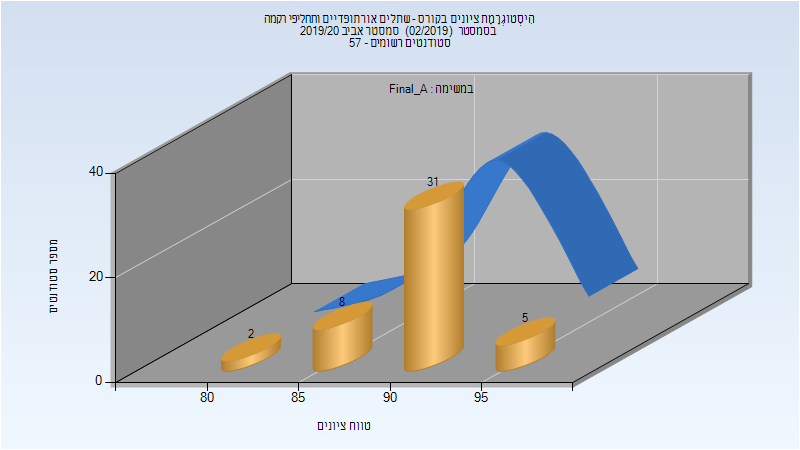
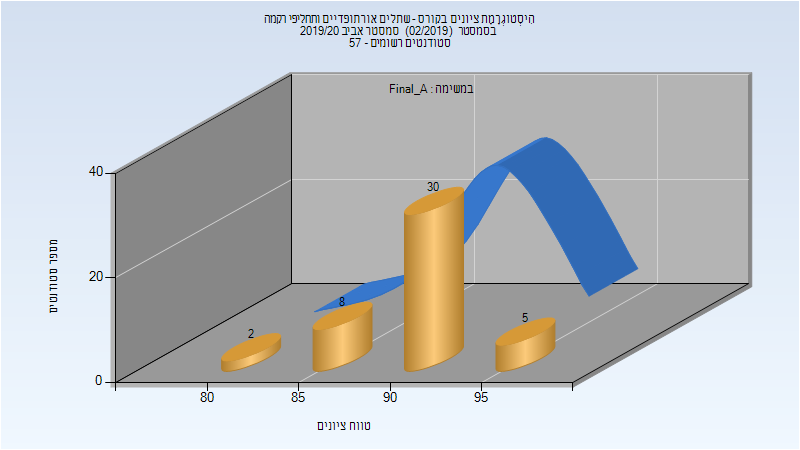
Deploy michael-maltsev/technion-histograms to github.com/michael-maltsev/technion-histograms.git:gh-pages

diff --git a/336520/index.html b/336520/index.html
@@ -206,12 +206,12 @@
 </thead>
 <tbody>
 <tr>
-<td>46</td>
-<td>46/0</td>
+<td>45</td>
+<td>45/0</td>
 <td>100</td>
 <td>56</td>
 <td>98</td>
-<td>82.511</td>
+<td>82.478</td>
 <td>84</td>
 </tr>
 </tbody>
@@ -232,13 +232,13 @@
 </thead>
 <tbody>
 <tr>
-<td>46</td>
-<td>46/0</td>
+<td>45</td>
+<td>45/0</td>
 <td>100</td>
 <td>84.46</td>
 <td>97.6</td>
-<td>92.365</td>
-<td>93.03</td>
+<td>92.351</td>
+<td>93.06</td>
 </tr>
 </tbody>
 </table>
@@ -310,12 +310,12 @@
 </thead>
 <tbody>
 <tr>
-<td>57</td>
-<td>57/0</td>
+<td>58</td>
+<td>58/0</td>
 <td>100</td>
 <td>84</td>
 <td>98</td>
-<td>92.719</td>
+<td>92.724</td>
 <td>93</td>
 </tr>
 </tbody>

diff --git a/324298/index.html b/324298/index.html
@@ -411,11 +411,11 @@
 <td>מרצה - אחראי מקצוע</td>
 </tr>
 <tr>
-<td>בורנשטיין יעל</td>
+<td>איסמן ליסה</td>
 <td>סגל מנהלי - עם הרשאות מרצה אחראי</td>
 </tr>
 <tr>
-<td>איסמן ליסה</td>
+<td>הראל אילנה</td>
 <td>סגל מנהלי - עם הרשאות מרצה אחראי</td>
 </tr>
 <tr>
@@ -423,7 +423,7 @@
 <td>סגל מנהלי - עם הרשאות מרצה אחראי</td>
 </tr>
 <tr>
-<td>הראל אילנה</td>
+<td>בורנשטיין יעל</td>
 <td>סגל מנהלי - עם הרשאות מרצה אחראי</td>
 </tr>
 </tbody>

diff --git a/336520/README.md b/336520/README.md
@@ -62,7 +62,7 @@
 
 | סטודנטים | עברו/נכשלו | אחוז עוברים | ציון מינימלי | ציון מקסימלי | ממוצע | חציון |
 | ---- | ---- | ---- | ---- | ---- | ---- | ---- |
-| 46 | 46/0 | 100 | 56 | 98 | 82.511 | 84 |
+| 45 | 45/0 | 100 | 56 | 98 | 82.478 | 84 |
 
 ### סופי מועד א'
 
@@ -70,7 +70,7 @@
 
 | סטודנטים | עברו/נכשלו | אחוז עוברים | ציון מינימלי | ציון מקסימלי | ממוצע | חציון |
 | ---- | ---- | ---- | ---- | ---- | ---- | ---- |
-| 46 | 46/0 | 100 | 84.46 | 97.6 | 92.365 | 93.03 |
+| 45 | 45/0 | 100 | 84.46 | 97.6 | 92.351 | 93.06 |
 
 ### מבחן מועד ב'
 
@@ -94,5 +94,5 @@
 
 | סטודנטים | עברו/נכשלו | אחוז עוברים | ציון מינימלי | ציון מקסימלי | ממוצע | חציון |
 | ---- | ---- | ---- | ---- | ---- | ---- | ---- |
-| 57 | 57/0 | 100 | 84 | 98 | 92.719 | 93 |
+| 58 | 58/0 | 100 | 84 | 98 | 92.724 | 93 |
 

diff --git a/324298/README.md b/324298/README.md
@@ -128,10 +128,10 @@
 | איש סגל | תפקיד |
 | ---- | ---- |
 | פלד כץ תמר | מרצה - אחראי מקצוע |
-| בורנשטיין יעל | סגל מנהלי - עם הרשאות מרצה אחראי |
 | איסמן ליסה | סגל מנהלי - עם הרשאות מרצה אחראי |
-| בן ענת רוחמה | סגל מנהלי - עם הרשאות מרצה אחראי |
 | הראל אילנה | סגל מנהלי - עם הרשאות מרצה אחראי |
+| בן ענת רוחמה | סגל מנהלי - עם הרשאות מרצה אחראי |
+| בורנשטיין יעל | סגל מנהלי - עם הרשאות מרצה אחראי |
 
 ### סופי מועד א'
 
